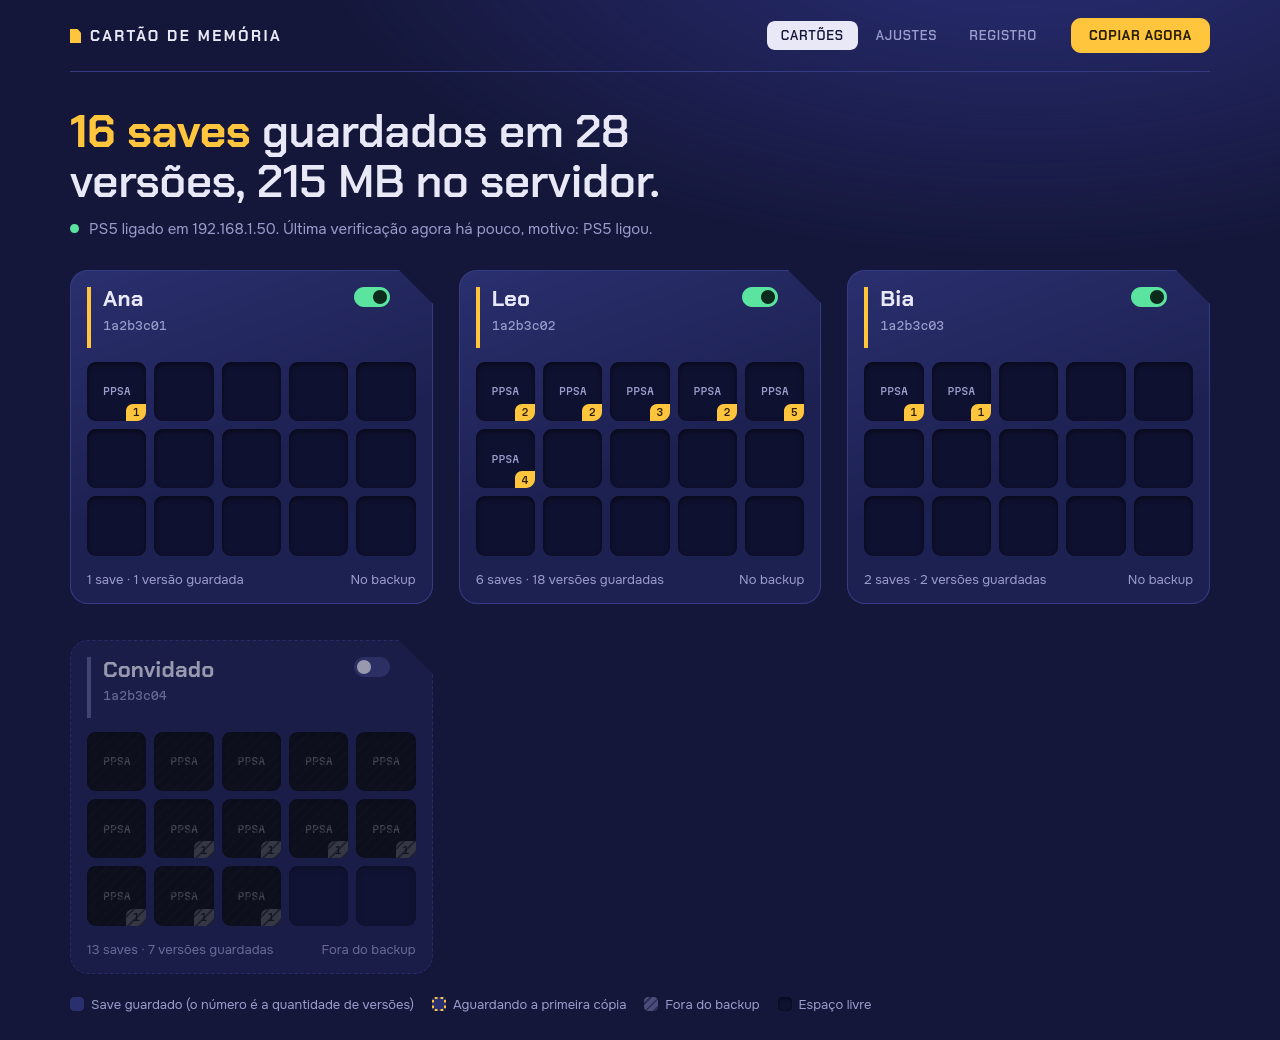
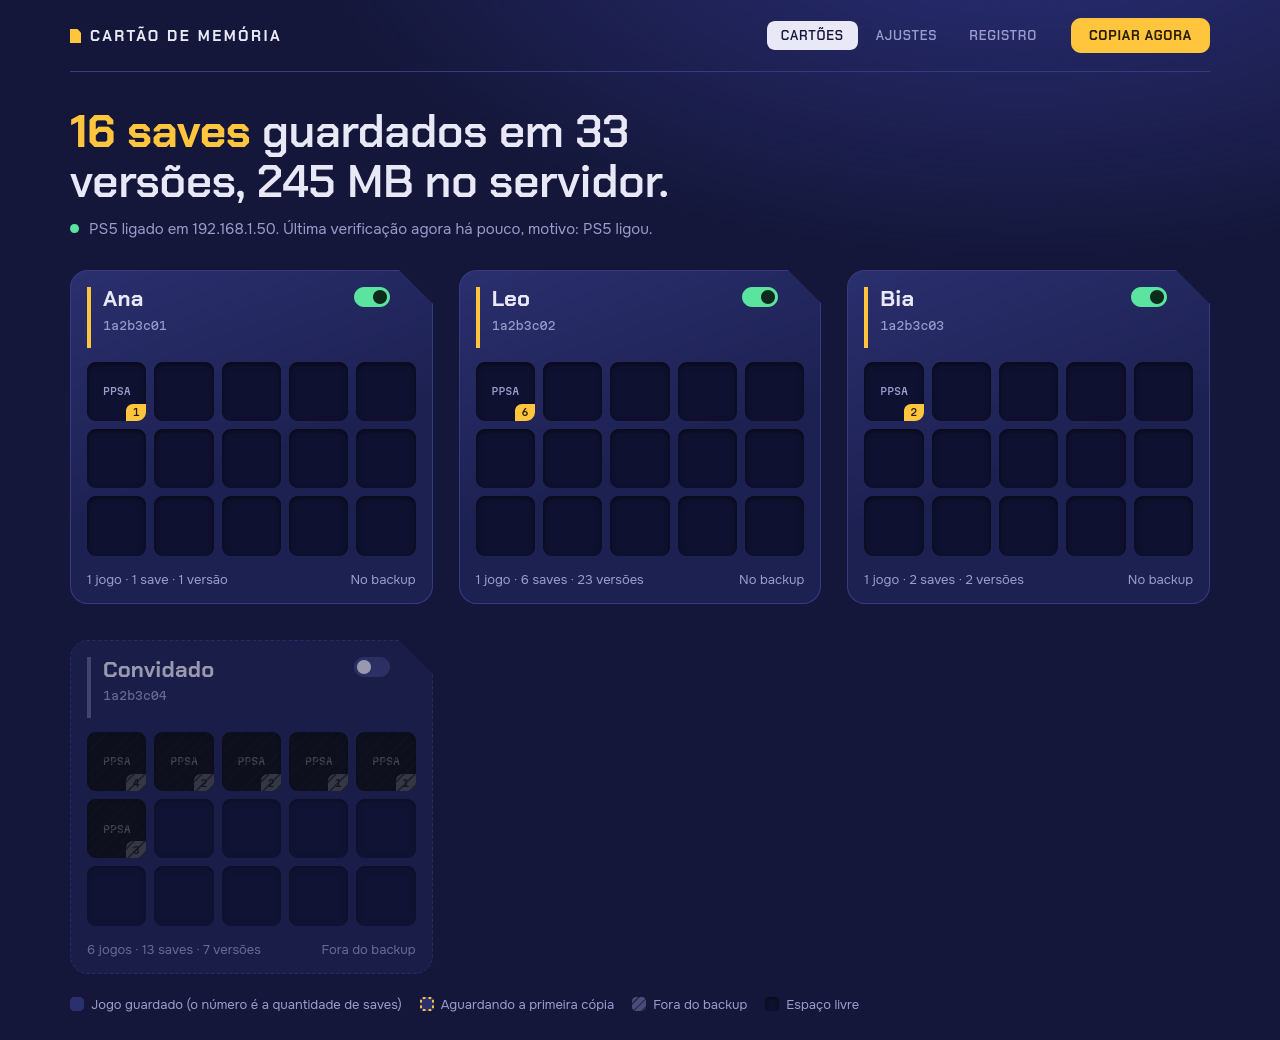
Agrupa a interface por jogo e junta cópias seguidas no registro
Um bloco por jogo em cada cartão, com os saves e o histórico de cada um
dentro da gaveta. O registro passa a mostrar uma linha por sessão de cópias.

Claude-Session: https://claude.ai/code/session_01MUXpfhkyRG2RqV26xdvSig

diff --git a/app/ui/index.html b/app/ui/index.html
@@ -130,6 +130,14 @@ button.block:hover { transform: translateY(-3px); }
   color: var(--text); text-decoration: none; font: 600 12px var(--display); letter-spacing: .05em; text-transform: uppercase; }
 .ver .acts > *:hover { border-color: var(--slot); color: var(--slot); }
 .ver .acts > [aria-pressed=true] { background: var(--slot); border-color: var(--slot); color: #2a1e00; }
+details.save { border-bottom: 1px solid var(--line); }
+details.save summary { list-style: none; cursor: pointer; padding: 13px 26px 13px 0; position: relative; }
+details.save summary::-webkit-details-marker { display: none; }
+details.save summary::after { content: "+"; position: absolute; right: 4px; top: 12px; color: var(--slot); font: 600 18px var(--display); }
+details.save[open] summary::after { content: "–"; }
+details.save summary small { display: block; color: var(--mute); margin-top: 2px; }
+details.save .ver { padding-left: 14px; border-bottom: 0; border-top: 1px solid var(--line); }
+.chip { padding: 2px 7px; border-radius: 6px; background: var(--well); color: var(--mute); font: 400 10px var(--mono); vertical-align: 2px; }
 .note { margin-top: 22px; padding: 14px 16px; border-radius: 12px; background: var(--well); color: var(--mute); font-size: 13.5px; }
 .note a { color: var(--slot); }
 .note ol { margin: 8px 0 0; padding-left: 20px; }
@@ -195,7 +203,7 @@ pre.log { margin: 14px 0 0; padding: 16px; border-radius: 12px; background: var(
     <section id="tab-cards">
       <div class="cards" id="cards"></div>
       <div class="legend">
-        <span><i></i>Save guardado (o número é a quantidade de versões)</span>
+        <span><i></i>Jogo guardado (o número é a quantidade de saves)</span>
         <span><i class="w"></i>Aguardando a primeira cópia</span>
         <span><i class="o"></i>Fora do backup</span>
         <span><i class="e"></i>Espaço livre</span>
@@ -277,25 +285,30 @@ function render() {
   if (tab === "settings" && !formDirty) renderSettings();
 }
 
+function gamesOf(p) { // agrupa os saves do perfil por jogo
+  const map = new Map();
+  p.saves.forEach(s => { if (!map.has(s.title)) map.set(s.title, []); map.get(s.title).push(s); });
+  return [...map].map(([title, saves]) => ({ title, saves, versions: saves.reduce((n, s) => n + s.versions.length, 0) }));
+}
 function renderCards() {
   if (!data.profiles.length) {
     $("#cards").innerHTML = `<div class="empty">Ainda não li nenhum perfil. Ligue o PS5, rode o desbloqueio com o ftpsrv e toque em “Copiar agora”.</div>`;
     return;
   }
   $("#cards").innerHTML = data.profiles.map(p => {
-    const slots = Math.max(15, Math.ceil(p.saves.length / 5) * 5);
-    const versions = p.saves.reduce((n, s) => n + s.versions.length, 0);
-    const blocks = p.saves.map(s => {
-      const t = data.titles[s.title] || {}, off = !p.included || t.excluded;
-      const cls = off ? "off" : s.versions.length ? "" : "wait";
-      const what = `${gameName(s.title)}: ${s.label || s.name}`;
-      return `<button class="block ${cls}" data-key="${esc(saveKey(s))}" title="${esc(what)}" aria-label="${esc(what)}"
-        ${t.icon ? `style="--art:url(/art/${s.title}/icon0.png)"` : ""}>
-        ${t.icon ? "" : `<span class="ini">${esc(s.title.slice(0, 4))}</span>`}
-        ${s.versions.length ? `<span class="n">${s.versions.length}</span>` : ""}</button>`;
-    }).join("") + `<span class="block"></span>`.repeat(slots - p.saves.length);
-    const foot = p.saves.length
-      ? `${plural(p.saves.length, "save", "saves")} · ${plural(versions, "versão guardada", "versões guardadas")}`
+    const games = gamesOf(p), slots = Math.max(15, Math.ceil(games.length / 5) * 5);
+    const versions = games.reduce((n, g) => n + g.versions, 0);
+    const blocks = games.map(g => {
+      const t = data.titles[g.title] || {}, off = !p.included || t.excluded;
+      const cls = off ? "off" : g.versions ? "" : "wait";
+      const what = `${gameName(g.title)}: ${plural(g.saves.length, "save", "saves")}, ${plural(g.versions, "versão", "versões")}`;
+      return `<button class="block ${cls}" data-key="${esc(p.uid + "/" + g.title)}" title="${esc(what)}" aria-label="${esc(what)}"
+        ${t.icon ? `style="--art:url(/art/${g.title}/icon0.png)"` : ""}>
+        ${t.icon ? "" : `<span class="ini">${esc(g.title.slice(0, 4))}</span>`}
+        <span class="n">${g.saves.length}</span></button>`;
+    }).join("") + `<span class="block"></span>`.repeat(slots - games.length);
+    const foot = games.length
+      ? `${plural(games.length, "jogo", "jogos")} · ${plural(p.saves.length, "save", "saves")} · ${plural(versions, "versão", "versões")}`
       : "Nenhum save neste perfil";
     return `<article class="card ${p.included ? "" : "out"}">
       <div class="card-label">
@@ -308,40 +321,50 @@ function renderCards() {
   }).join("");
 }
 
+const openSaves = new Set(); // saves expandidos na gaveta (sobrevive às atualizações)
 function renderDrawer() {
-  const s = allSaves().find(x => saveKey(x) === openKey);
-  if (!s) return closeDrawer();
-  const t = data.titles[s.title] || {}, off = saveOff(s);
-  const state = !s.versions.length ? (off ? "Fora do backup. Nenhuma versão guardada." : "Aguardando a primeira cópia.")
-    : !s.on_console ? "Não está mais no console. As versões guardadas continuam aqui."
-    : off ? "Fora do backup. As versões antigas continuam guardadas, mas não entram novas."
-    : `Última cópia ${ago(stampDate(s.versions[0].stamp))}.`;
-  const versions = s.versions.map((v, i) => `<div class="ver">
-      <strong>${full(stampDate(v.stamp))}${i === 0 ? ` <span class="tag">mais recente</span>` : ""}</strong>
-      <small>${esc(v.trigger)} · ${mb(v.size)}${v.sub ? " · " + esc(v.sub) : ""} · <span class="mono" title="SHA-256: ${esc(v.sha256)}">${esc(v.sha256.slice(0, 12))}</span></small>
-      <span class="acts"><button data-pin="${v.stamp}" aria-pressed="${v.pinned}" title="Uma versão fixada nunca é apagada pela limpeza.">${v.pinned ? "Fixada" : "Fixar"}</button>
-      <a href="/download/${s.uid}/${s.title}/${encodeURIComponent(s.file)}/${v.stamp}" download>Baixar</a></span>
-    </div>`).join("");
+  const [uid, title] = openKey.split("/");
+  const p = data.profiles.find(x => x.uid === uid), g = p && gamesOf(p).find(x => x.title === title);
+  if (!g) return closeDrawer();
+  const t = data.titles[title] || {}, off = !p.included || t.excluded;
+  const groups = g.saves.map(s => {
+    const state = !s.versions.length ? (off ? "nenhuma versão guardada" : "aguardando a primeira cópia")
+      : !s.on_console ? `${plural(s.versions.length, "versão", "versões")} · não está mais no console`
+      : `${plural(s.versions.length, "versão", "versões")} · última ${ago(stampDate(s.versions[0].stamp))}`;
+    const versions = s.versions.map((v, i) => `<div class="ver">
+        <strong>${full(stampDate(v.stamp))}${i === 0 ? ` <span class="tag">mais recente</span>` : ""}</strong>
+        <small>${esc(v.trigger)} · ${mb(v.size)}${v.sub && v.sub !== v.label ? " · " + esc(v.sub) : ""} · <span class="mono" title="SHA-256: ${esc(v.sha256)}">${esc(v.sha256.slice(0, 12))}</span></small>
+        <span class="acts"><button data-pin="${v.stamp}" data-file="${esc(s.file)}" aria-pressed="${v.pinned}" title="Uma versão fixada nunca é apagada pela limpeza.">${v.pinned ? "Fixada" : "Fixar"}</button>
+        <a href="/download/${s.uid}/${s.title}/${encodeURIComponent(s.file)}/${v.stamp}" download>Baixar</a></span>
+      </div>`).join("");
+    return `<details class="save" data-save="${esc(s.file)}" ${openSaves.has(s.file) ? "open" : ""}>
+      <summary><b>${esc(s.label || s.name)}</b>${s.is_system_copy ? ` <span class="chip">reserva do jogo</span>` : ""}
+        <small>${esc(state)}${s.sub && s.sub !== s.label ? " · " + esc(s.sub) : ""}</small><small class="mono">${esc(s.file)}</small></summary>
+      ${versions || `<div class="ver"><small>Sem versões guardadas.</small></div>`}</details>`;
+  }).join("");
+  const top = $("#drawer").scrollTop;
   $("#drawer").innerHTML = `
-    <div class="art" ${t.pic ? `style="--pic:url(/art/${s.title}/pic0.png)"` : ""}>
+    <div class="art" ${t.pic ? `style="--pic:url(/art/${title}/pic0.png)"` : ""}>
       <button class="x" id="closeDrawer" aria-label="Fechar">×</button>
-      <h3>${esc(gameName(s.title))}</h3>
-      <p>${esc(s.label || s.name)}${s.sub ? " · " + esc(s.sub) : ""}${s.is_system_copy ? " (cópia de segurança do próprio jogo)" : ""}</p>
-      <div class="chips"><span>${esc(s.profile.name)}</span><span>${esc(s.title)}</span>${t.version ? `<span>v${esc(t.version)}</span>` : ""}<span>${esc(s.file)}</span></div>
+      <h3>${esc(gameName(title))}</h3>
+      <p>${plural(g.saves.length, "save", "saves")} de ${esc(p.name)}, ${plural(g.versions, "versão guardada", "versões guardadas")}</p>
+      <div class="chips"><span>${esc(title)}</span>${t.version ? `<span>v${esc(t.version)}</span>` : ""}</div>
     </div>
     <div class="dbody">
-      <div class="row"><span>${esc(state)}</span></div>
+      ${off ? `<div class="row"><span>Fora do backup. As versões antigas continuam guardadas, mas não entram novas.</span></div>` : ""}
       <div class="row"><span>Guardar os saves deste jogo<br><small style="color:var(--mute)">Vale para todos os perfis.</small></span>
-        <label class="sw"><input type="checkbox" data-title="${esc(s.title)}" ${t.excluded ? "" : "checked"}><span></span></label></div>
-      <h4>${s.versions.length ? plural(s.versions.length, "versão guardada", "versões guardadas") : "Sem versões"}</h4>
-      ${versions}
+        <label class="sw"><input type="checkbox" data-title="${esc(title)}" ${t.excluded ? "" : "checked"}><span></span></label></div>
+      <h4>Saves deste jogo</h4>
+      <p style="margin:6px 0 10px;color:var(--mute);font-size:13.5px">Um jogo costuma gravar vários arquivos (perfil, sistema, cada slot). Cada um tem o próprio histórico.</p>
+      ${groups}
       <div class="note"><b>Para restaurar</b>
         <ol><li>Baixe a versão que você quer.</li>
-        <li>Abra o <a href="${esc(data.status.garlic_url)}" target="_blank" rel="noopener">Garlic SaveMgr</a> e use a aba Import no perfil ${esc(s.profile.name)}.</li></ol>
+        <li>Abra o <a href="${esc(data.status.garlic_url)}" target="_blank" rel="noopener">Garlic SaveMgr</a> e use a aba Import no perfil ${esc(p.name)}.</li></ol>
         Esta página nunca grava nada no PS5.</div>
     </div>`;
+  $("#drawer").scrollTop = top;
 }
-function openDrawer(key) { openKey = key; renderDrawer(); $("#drawer").classList.add("open"); $("#scrim").classList.add("open"); }
+function openDrawer(key) { openKey = key; openSaves.clear(); renderDrawer(); $("#drawer").classList.add("open"); $("#scrim").classList.add("open"); }
 function closeDrawer() { openKey = null; $("#drawer").classList.remove("open"); $("#scrim").classList.remove("open"); }
 
 /* ---------- ajustes ---------- */
@@ -418,11 +441,21 @@ function collectConfig() {
 
 /* ---------- registro ---------- */
 async function renderLog() {
-  const events = allSaves().flatMap(s => s.versions.map(v => ({ s, v }))).sort((a, b) => b.v.stamp.localeCompare(a.v.stamp)).slice(0, 60);
-  const feed = events.length ? `<ul class="feed">${events.map(({ s, v }) => `<li>
-      ${data.titles[s.title]?.icon ? `<img src="/art/${s.title}/icon0.png" alt="">` : `<span class="ph"></span>`}
-      <div><b>${esc(gameName(s.title))}</b> · ${esc(v.label || s.label || s.name)}<small>${esc(s.profile.name)} · ${esc(v.trigger)} · ${mb(v.size)}</small></div>
-      <time title="${full(stampDate(v.stamp))}">${ago(stampDate(v.stamp))}</time></li>`).join("")}</ul>`
+  const events = allSaves().flatMap(s => s.versions.map(v => ({ s, v }))).sort((a, b) => b.v.stamp.localeCompare(a.v.stamp));
+  const groups = [];
+  for (const e of events) { // cópias do mesmo jogo e perfil, com menos de 30 min entre si, viram uma linha
+    const last = groups.at(-1);
+    if (last && last.s.title === e.s.title && last.s.uid === e.s.uid && stampDate(last.oldest) - stampDate(e.v.stamp) < 18e5) {
+      last.count++; last.bytes += e.v.size; last.oldest = e.v.stamp;
+      last.names.set(e.v.label || e.s.label || e.s.name, (last.names.get(e.v.label || e.s.label || e.s.name) || 0) + 1);
+    } else groups.push({ s: e.s, newest: e.v.stamp, oldest: e.v.stamp, count: 1, bytes: e.v.size,
+      names: new Map([[e.v.label || e.s.label || e.s.name, 1]]) });
+  }
+  const feed = groups.length ? `<ul class="feed">${groups.slice(0, 40).map(g => `<li>
+      ${data.titles[g.s.title]?.icon ? `<img src="/art/${g.s.title}/icon0.png" alt="">` : `<span class="ph"></span>`}
+      <div><b>${esc(gameName(g.s.title))}</b> · ${plural(g.count, "cópia", "cópias")}
+        <small>${esc(g.s.profile.name)} · ${mb(g.bytes)} · ${[...g.names].map(([n, c]) => esc(n) + (c > 1 ? " ×" + c : "")).join(", ")}</small></div>
+      <time title="${full(stampDate(g.newest))}">${ago(stampDate(g.newest))}</time></li>`).join("")}</ul>`
     : `<div class="empty">Nenhuma cópia registrada ainda.</div>`;
   let lines = [];
   try { lines = (await (await fetch("/api/log")).json()).lines; } catch (e) {}
@@ -447,8 +480,8 @@ document.addEventListener("click", async e => {
   } else if (el.dataset.key) openDrawer(el.dataset.key);
   else if (el.id === "closeDrawer") closeDrawer();
   else if (el.dataset.pin) {
-    const [uid, title, ...rest] = openKey.split("/"), pinned = el.getAttribute("aria-pressed") !== "true";
-    act(() => post("/api/pin", { uid, title, file: rest.join("/"), stamp: el.dataset.pin, pinned }), pinned ? "Versão fixada" : "Versão liberada");
+    const [uid, title] = openKey.split("/"), pinned = el.getAttribute("aria-pressed") !== "true";
+    act(() => post("/api/pin", { uid, title, file: el.dataset.file, stamp: el.dataset.pin, pinned }), pinned ? "Versão fixada" : "Versão liberada");
   }
   else if (el.id === "go") { await act(() => post("/api/backup"), "Cópia iniciada"); }
   else if (el.id === "saveCfg") { const ok = await act(() => post("/api/config", collectConfig()), "Ajustes salvos"); if (ok) renderSettings(); }
@@ -471,6 +504,10 @@ document.addEventListener("change", e => {
   } else if (el.dataset.path) formDirty = true;
 });
 document.addEventListener("input", e => { if (e.target.dataset.path) formDirty = true; });
+document.addEventListener("toggle", e => {
+  const d = e.target;
+  if (d.dataset?.save) d.open ? openSaves.add(d.dataset.save) : openSaves.delete(d.dataset.save);
+}, true);
 $("#scrim").addEventListener("click", closeDrawer);
 document.addEventListener("keydown", e => { if (e.key === "Escape") closeDrawer(); });
 

diff --git a/README.md b/README.md
@@ -3,7 +3,7 @@
 Backup automático e versionado dos saves de um PS5 com jailbreak para um
 computador da sua rede, com interface web.
 
-![Tela dos cartões: um cartão por perfil, um bloco por save](docs/screenshot.png)
+![Tela dos cartões: um cartão por perfil, um bloco por jogo](docs/screenshot.png)
 
 *Dados de exemplo. No uso real, cada bloco mostra o ícone do jogo.*
 
@@ -52,10 +52,11 @@ disco, mude `BACKUP_DIR` no `.env`.
 
 ## Usando a interface
 
-**Cartões.** Cada perfil do PS5 é um cartão de memória e cada save é um bloco.
-O número no bloco é quantas versões estão guardadas. O interruptor do cartão
-tira ou coloca o perfil no backup. Clique num bloco para ver as versões, baixar,
-fixar uma versão ou tirar aquele jogo do backup.
+**Cartões.** Cada perfil do PS5 é um cartão de memória e cada jogo é um bloco.
+O número no bloco é quantos saves aquele jogo tem (um jogo costuma gravar vários
+arquivos: perfil, sistema, cada slot). O interruptor do cartão tira ou coloca o
+perfil no backup. Clique num bloco para ver os saves do jogo, o histórico de
+cada um, baixar, fixar uma versão ou tirar o jogo do backup.
 
 **Ajustes.** Tudo é configurável ali e vale na hora, sem reiniciar: gatilhos,
 regras de limpeza, avisos e endereço do console. A interface regrava o
@@ -107,6 +108,7 @@ Travas de segurança:
 
 - As 3 versões mais novas de cada save nunca saem.
 - Versões **fixadas** nunca saem. Fixe o save de antes de um chefe, de um final, de uma decisão.
+- A limpeza só mexe na pasta de backup. No PS5 nada é apagado nem alterado.
 - O que sai vai para `data/trash/` e só é apagado de vez depois de 7 dias. Para
   recuperar, mova a pasta de volta para o mesmo caminho em `data/saves/`.
 - O limite de espaço **só avisa**. Passar dele nunca apaga nada.
